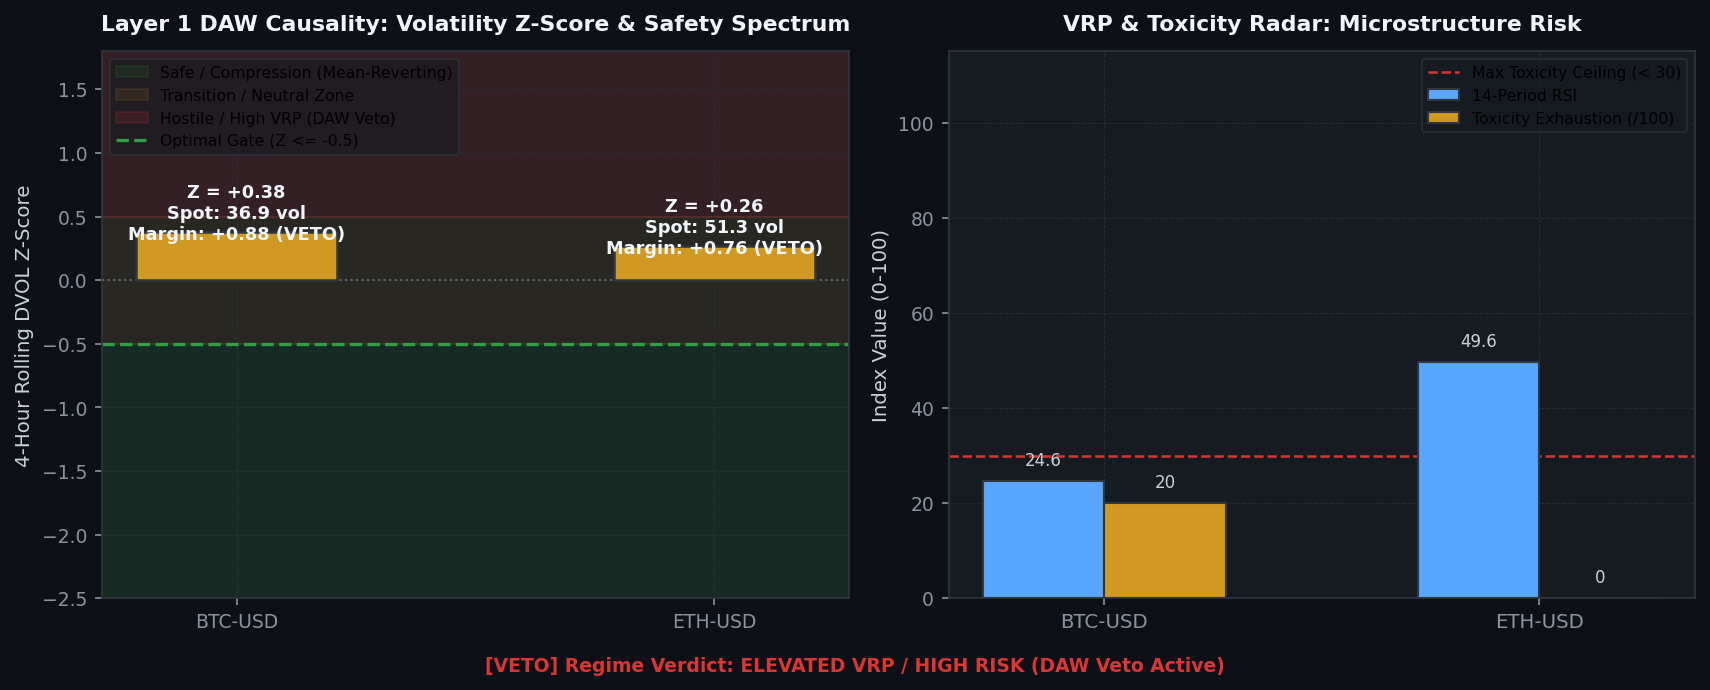
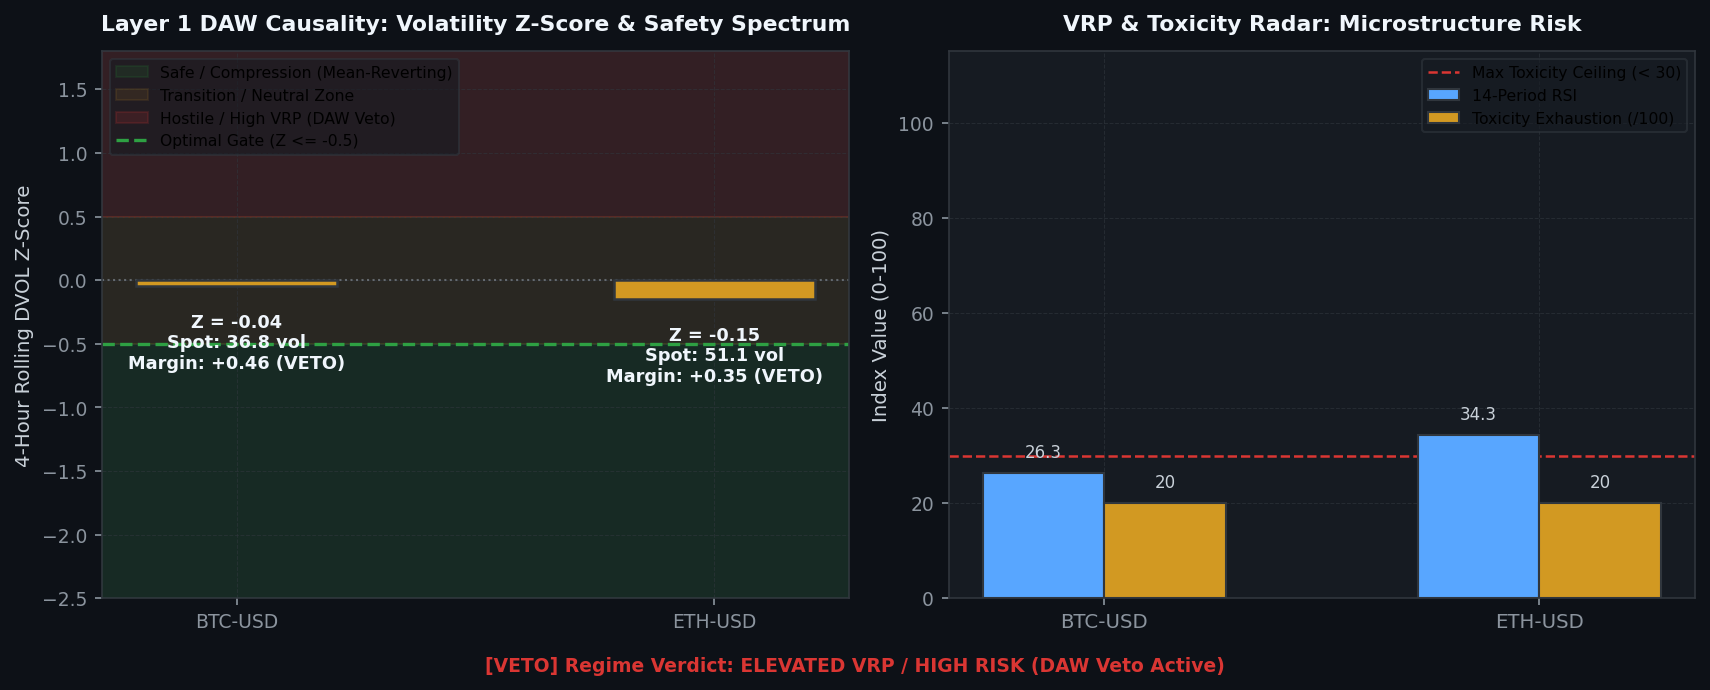
[coinbase] Hourly Status & Visual Intelligence Update: 2026-08-31 10:17:14

diff --git a/coinbase/data/hourly_status_report.md b/coinbase/data/hourly_status_report.md
@@ -3,7 +3,7 @@ layout: default
 ---
 
 # 🛡 Unified Trading System Hourly Status & Visual Intelligence
-> **Report Generated**: `2026-08-31 10:00:00 AM PDT (2026-08-31 17:00:00 UTC)`  
+> **Report Generated**: `2026-08-31 10:16:56 AM PDT (2026-08-31 17:16:56 UTC)`  
 > **System Health**: **🟡 DEGRADED / RESTRICTED** | **Win Rate**: `0.0%` | **Completed Trades**: `0`
 
 
@@ -15,13 +15,13 @@ Real-time Deribit implied volatility (DVOL) proxy tracking against mathematicall
 
 | Symbol | Proxy Oracle | Live Z-Score | Optimal Limit (YSP) | Safety Margin | Live VRP | Optimal VRP (YSP) | DAW Safety Verdict |
 | :--- | :--- | :--- | :--- | :--- | :--- | :--- | :--- |
-| `AVAX-USD` | DVOL_BTC | **+0.38** | **-0.50** | **+0.88** | **-1.11** | 5.0 | 🔴 DAW VETOED |
-| `ETH-USD` | DVOL_ETH | **+0.18** | **-0.50** | **+0.68** | **+13.03** | 5.0 | 🔴 DAW VETOED |
-| `ADA-USD` | DVOL_BTC | **+0.38** | **-0.50** | **+0.88** | **-1.52** | 5.0 | 🔴 DAW VETOED |
-| `DOGE-USD` | DVOL_BTC | **+0.38** | **-0.50** | **+0.88** | **-1.34** | 5.0 | 🔴 DAW VETOED |
-| `BTC-USD` | DVOL_BTC | **+0.38** | **-0.50** | **+0.88** | **-1.34** | 5.0 | 🔴 DAW VETOED |
-| `LINK-USD` | DVOL_BTC | **+0.38** | **-0.50** | **+0.88** | **-1.09** | 5.0 | 🔴 DAW VETOED |
-| `SOL-USD` | DVOL_BTC | **+0.38** | **-0.50** | **+0.88** | **-1.34** | 5.0 | 🔴 DAW VETOED |
+| `AVAX-USD` | DVOL_BTC | **-0.08** | **-0.50** | **+0.42** | **+1.09** | 5.0 | 🔴 DAW VETOED |
+| `ETH-USD` | DVOL_ETH | **-0.15** | **-0.50** | **+0.35** | **+15.33** | 5.0 | 🔴 DAW VETOED |
+| `ADA-USD` | DVOL_BTC | **-0.08** | **-0.50** | **+0.42** | **-1.52** | 5.0 | 🔴 DAW VETOED |
+| `DOGE-USD` | DVOL_BTC | **-0.08** | **-0.50** | **+0.42** | **+1.05** | 5.0 | 🔴 DAW VETOED |
+| `BTC-USD` | DVOL_BTC | **-0.08** | **-0.50** | **+0.42** | **+1.03** | 5.0 | 🔴 DAW VETOED |
+| `LINK-USD` | DVOL_BTC | **-0.08** | **-0.50** | **+0.42** | **+0.97** | 5.0 | 🔴 DAW VETOED |
+| `SOL-USD` | DVOL_BTC | **-0.08** | **-0.50** | **+0.42** | **+1.03** | 5.0 | 🔴 DAW VETOED |
 
 
 
@@ -37,16 +37,16 @@ We hereby certify that the mission-critical algorithmic data assets uploaded by 
 
 | Status | Data Asset | Freshness / State | Details / Timestamp |
 | :---: | :--- | :--- | :--- |
-| ✅ | **Go-List JSON** | Fresh (8.78h old) | 08-31 01:13 |
-| ✅ | **TimesFM Forecasts** | Fresh (1.95h old) | 08-31 08:03 |
-| ❌ | **Holding Times config** | STALE! (241.0h old) | Limit 15.0h |
-| ✅ | **BTC DVOL Cache** | Fresh (0.00h old) | 08-31 10:00 |
-| ✅ | **ETH DVOL Cache** | Fresh (0.00h old) | 08-31 10:00 |
-| ✅ | **Live Trading Telemetry** | Fresh (0.00h old) | 08-31 10:00 |
+| ✅ | **Go-List JSON** | Fresh (9.06h old) | 08-31 01:13 |
+| ✅ | **TimesFM Forecasts** | Fresh (2.23h old) | 08-31 08:03 |
+| ❌ | **Holding Times config** | STALE! (241.2h old) | Limit 15.3h |
+| ✅ | **BTC DVOL Cache** | Fresh (0.01h old) | 08-31 10:16 |
+| ✅ | **ETH DVOL Cache** | Fresh (0.01h old) | 08-31 10:16 |
+| ✅ | **Live Trading Telemetry** | Fresh (0.00h old) | 08-31 10:17 |
 
 <br>
 
-> **Utilization Certification**: ✅ **CERTIFIED.** The Guardian Watchdog is ONLINE and EC2 traders are actively querying the freshest MLOps data artifacts (Found 1627 recent read events).
+> **Utilization Certification**: ✅ **CERTIFIED.** The Guardian Watchdog is ONLINE and EC2 traders are actively querying the freshest MLOps data artifacts (Found 1685 recent read events).
 
 
 ---
@@ -55,7 +55,7 @@ Layer-by-layer tick evaluation waterfall and asset-specific performance tracking
 
 | Funnel Filter Layer | Total Rejections | % of Rejections |
 | :--- | :--- | :--- |
-| Tier 1: Macro Volatility Tensor Gate (Omega_macro) | `52,003` | **100.0%** |
+| Tier 1: Macro Volatility Tensor Gate (Omega_macro) | `52,217` | **100.0%** |
 | Tier 2: Unified Transport & Directional Engine | `0` | **0.0%** |
 | Tier 3: Continuous Hawkes-SFGK Pricer (HAS-Pricer) | `0` | **0.0%** |
 | System: Asset Cooldown Active | `0` | **0.0%** |
@@ -72,7 +72,7 @@ Layer-by-layer tick evaluation waterfall and asset-specific performance tracking
 | `ADA-USD` | 66 | 66.7% | 0 | 🟢 OK |
 | `DOGE-USD` | 52 | 69.2% | 0 | 🟢 OK |
 | `ETH-USD` | 24 | 66.7% | 0 | 🟢 OK |
-| `LINK-USD` | 58 | 75.9% | 0 | 🟢 OK |
+| `LINK-USD` | 59 | 74.6% | 1 | 🟢 OK |
 | `AVAX-USD` | 48 | 72.9% | 1 | 🟢 OK |
 | `SOL-USD` | 22 | 77.3% | 1 | 🟢 OK |
 
@@ -90,13 +90,14 @@ Live balance sheet and open maker liquidity positions from Coinbase CDP.
 | `USDT-USD` | SELL | 0.99981 | `92f08680-d898-474d-b832-eba9fa2a0153` |
 | `USDT-USD` | SELL | 0.99979 | `b6223ed6-7279-4922-bd37-08d329fd5a7c` |
 | `USDT-USD` | SELL | 0.99978 | `5fc38c70-d51a-4b9c-8110-8c892231f119` |
-| `LINK-USD` | SELL | 11.397 | `5a6754dd-b44a-4736-b195-f31efc390cd1` |
 | `ADA-USD` | SELL | 0.19697 | `45a6cf63-018d-42df-9069-8fcbcc7c1fa6` |
-| `AVAX-USD` | BUY | 7.188 | `64aeb992-5a2e-4ee9-b63a-e1c8d6aa13ba` |
-| `USDT-USD` | SELL | 0.99964 | `0064eafd-6c2b-4390-a189-3d985235e4f6` |
-| `USDT-USD` | SELL | 0.99964 | `15985629-291b-44db-8d3f-6327c32caf97` |
-| `USDT-USD` | SELL | 0.99964 | `d1b02895-4857-42f5-8c49-36580da78f13` |
-| `USDT-USD` | SELL | 0.99964 | `0c0efe21-d41c-484c-90c1-8b4f206c2547` |
+| `USDT-USD` | BUY | 0.99965 | `149ac24f-73a6-4662-a5c7-8f4ec815ab0e` |
+| `USDT-USD` | SELL | 0.99966 | `3af037a1-16a2-4942-9791-a31e0b3ffbdc` |
+| `USDT-USD` | SELL | 0.99966 | `3a780999-423f-4e06-ba15-79714bbc2891` |
+| `USDT-USD` | SELL | 0.99966 | `a34c09d3-9b77-44ae-9c76-dfbecf0da7a3` |
+| `USDT-USD` | SELL | 0.99966 | `377332f3-8b85-4337-9003-9eae949cf510` |
+| `USDT-USD` | SELL | 0.99966 | `6699c747-e18b-4f44-9587-e0a502b2987b` |
+| `USDT-USD` | SELL | 0.99966 | `e675efb2-8512-40b3-90bb-83db1ac6f24c` |
 
 
 
@@ -104,14 +105,14 @@ Live balance sheet and open maker liquidity positions from Coinbase CDP.
 ## 4. 🤖 Foundation Model MLOps & Pipeline Orchestration
 Weekly Algorithmic Mega Cap selection, Zero-shot multi-step forward return forecasts, and VSTEF parameter grid search status.
 
-- **TimesFM Forecast DB**: 🟢 Updated 1.9h ago (2026-08-31 08:03 AM PDT)
+- **TimesFM Forecast DB**: 🟢 Updated 2.2h ago (2026-08-31 08:03 AM PDT)
 - **Last Weekly VSTEF Optimization**: `2026-08-05 09:22:38 AM PDT`
-- **Next Scheduled VSTEF Run**: `2026-09-06 07:00:00 PM PDT (Monday 02:00 UTC)` (Countdown: **153.0h (6d 8h 59m)**)
+- **Next Scheduled VSTEF Run**: `2026-09-06 07:00:00 PM PDT (Monday 02:00 UTC)` (Countdown: **152.7h (6d 8h 42m)**)
 - **Promoted Parameter Gates**: $Z_{DVOL} \le -0.5$ | Holding Horizon $= 12\text{h}$
 
 ### Algorithmic Mega Cap Selection
 - **Last Run (Confirmation)**: `2026-08-31 01:13:25 AM PDT`
-- **Next Scheduled Run**: `2026-09-06 06:00:00 PM PDT (Monday 01:00 UTC)` (Countdown: **152.0h (6d 7h 59m)**)
+- **Next Scheduled Run**: `2026-09-06 06:00:00 PM PDT (Monday 01:00 UTC)` (Countdown: **151.7h (6d 7h 42m)**)
 - **Selected Mega Cap Universe**: `BTC, ETH, DOGE, HNT, XRP, SOL, ZEC`
 
 
@@ -125,20 +126,20 @@ Visualizing the impact of the VSTEF (Volatility-Synchronized Stop-Tightening Exe
 ## 5. 🖥 Multi-Node Infrastructure & Watchdog Matrix
 ```text
 ================================================================================
-   🛡  SFGK FUNNEL GUARDIAN WATCHDOG (HFT ONLY) |  04:59:57 PM
-   CPU:   5.9%  |  MEM:   7.3% (14.3GB / 15.4GB Free)
+   🛡  SFGK FUNNEL GUARDIAN WATCHDOG (HFT ONLY) |  05:16:54 PM
+   CPU:   8.5%  |  MEM:   6.8% (14.4GB / 15.4GB Free)
 ================================================================================
 SERVICE              | PID      | STATUS          | RESTARTS | INFO
 --------------------------------------------------------------------------------
 L3 Consumer          | 2256241  | RUNNING         | -        | Continuous Websocket Feed
 MAO Daemon           | 2256287  | RUNNING         | -        | Oracle Yield Analysis
 U/U Farmer           | 2256289  | RUNNING         | -        | Volume Farmer
-Trader AVAX-USD      | 2307006  | RUNNING         | 1        | Evaluating Funnel/Polling Order
-Trader ETH-USD       | 2307014  | RUNNING         | 15       | Evaluating Funnel/Polling Order
+Trader AVAX-USD      | 2321097  | COOL-DOWN       | 31       | Next run in 14.7s
+Trader ETH-USD       | 2319607  | RUNNING         | 45       | Evaluating Funnel/Polling Order
 Trader ADA-USD       | 2303988  | RUNNING         | 3        | Evaluating Funnel/Polling Order
-Trader DOGE-USD      | 2307015  | RUNNING         | 170      | Evaluating Funnel/Polling Order
-Trader BTC-USD       | 2306993  | COOL-DOWN       | 175      | Next run in 4.1s
-Trader LINK-USD      | 2260917  | RUNNING         | 9        | Evaluating Funnel/Polling Order
+Trader DOGE-USD      | 2321098  | COOL-DOWN       | 211      | Next run in 14.7s
+Trader BTC-USD       | 2320679  | COOL-DOWN       | 222      | Next run in 4.0s
+Trader LINK-USD      | 2319138  | COOL-DOWN       | 36       | Next run in 9.2s
 ```
 
 ---

diff --git a/coinbase/data/visual_intelligence.md b/coinbase/data/visual_intelligence.md
@@ -4,7 +4,7 @@ title: Visual Intelligence Gallery
 ---
 
 # 📈 Visual Intelligence Gallery
-> **Generated:** `2026-08-31 10:00:18`
+> **Generated:** `2026-08-31 10:17:14`
 > **[Return to Main Status Report](./hourly_status_report.md)**
 
 This page visualizes the internal states, market profiles, and decision criteria of the active **3-Tier Fused Decision Engine** across all layers.
